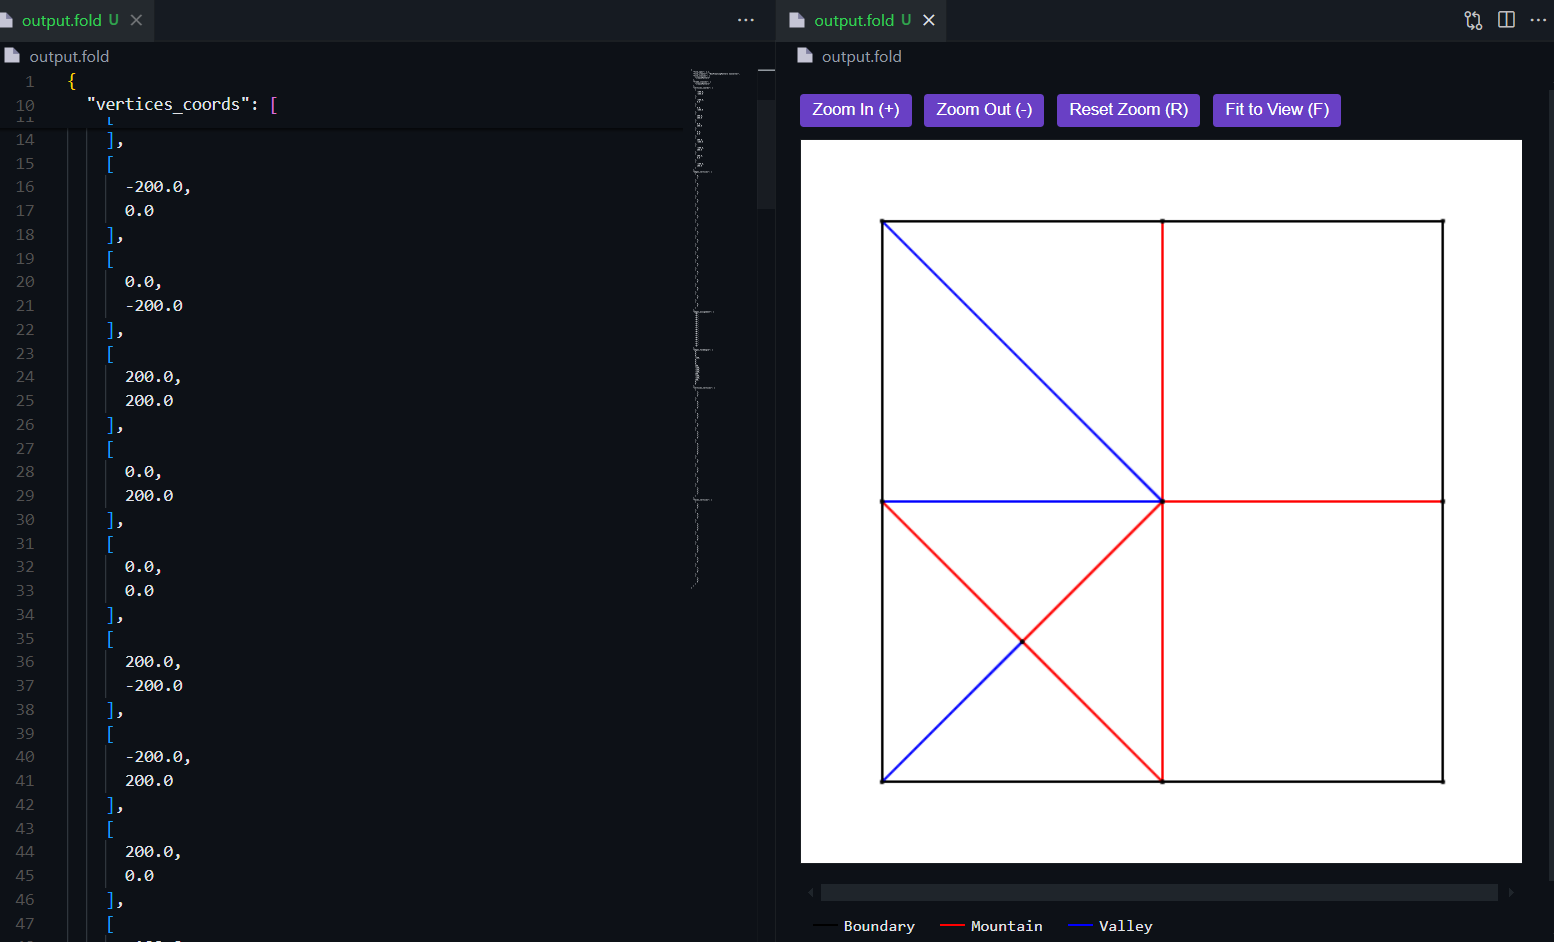
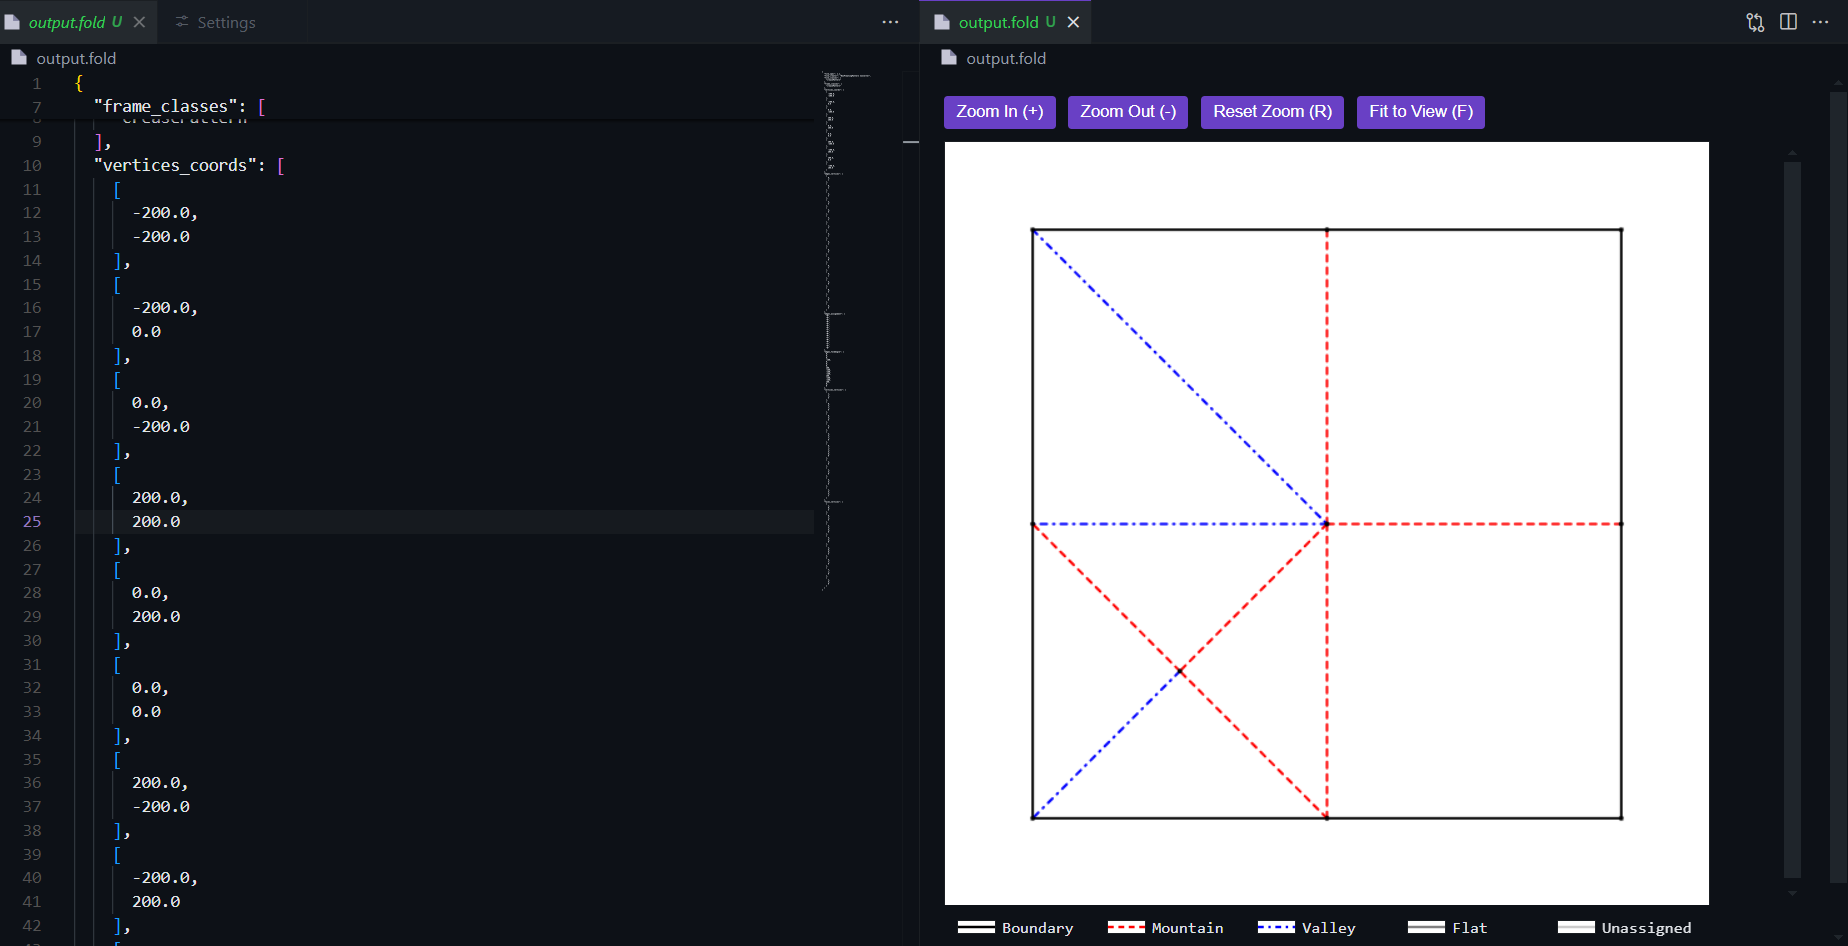
Legend update

diff --git a/src/extension.ts b/src/extension.ts
@@ -203,12 +203,12 @@ class FoldPreviewProvider implements vscode.CustomTextEditorProvider {
                         min-width: 100px;
                     }
                     .legend-color {
-                        width: 20px;
+                        width: 30px;
                         margin-top: 8px;
                     }
                     .legend-canvas {
-                        width: 20px;
-                        height: 20px;
+                        width: 30px;
+                        height: 10px;
                     }
                 </style>
             </head>
@@ -249,62 +249,47 @@ class FoldPreviewProvider implements vscode.CustomTextEditorProvider {
                         ];
 
                         legendDiv.innerHTML = items.map(item => {
-                            let legendItem;
-                            if (item.style === 'dashed-dotted') {
-                                // Create a mini-canvas for dash-dot pattern
-                                legendItem = '<div class="legend-item">' +
-                                            '<canvas class="legend-canvas" width="20" height="20" ' +
-                                            'data-color="' + item.color + '" ' +
-                                            'data-style="dashed-dotted"></canvas>' +
-                                            item.type +
-                                            '</div>';
-                            } else {
-                                const styles = [
-                                    'background: ' + item.color,
-                                    'width: 20px',
-                                    'height: ' + config.lineStyles.lineWidth + 'px'
-                                ];
-                                
-                                if (item.style) {
-                                    switch(item.style) {
-                                        case 'dashed':
-                                            styles.push('border-top-style: dashed');
-                                            styles.push('border-top-width: ' + config.lineStyles.lineWidth + 'px');
-                                            styles.push('border-top-color: ' + item.color);
-                                            styles.push('background: none');
-                                            break;
-                                        case 'dotted':
-                                            styles.push('border-top-style: dotted');
-                                            styles.push('border-top-width: ' + config.lineStyles.lineWidth + 'px');
-                                            styles.push('border-top-color: ' + item.color);
-                                            styles.push('background: none');
-                                            break;
-                                    }
-                                }
-                                
-                                legendItem = '<div class="legend-item">' +
-                                            '<div class="legend-color" style="' + styles.join(';') + '"></div>' +
-                                            item.type +
-                                            '</div>';
-                            }
-                            return legendItem;
+                            return '<div class="legend-item">' +
+                                '<canvas class="legend-canvas" width="32" height="10" ' +
+                                'data-color="' + item.color + '" ' +
+                                'data-style="' + (item.style || 'solid') + '"></canvas>' +
+                                item.type +
+                                '</div>';
                         }).join('');
 
-                        // Initialize any mini-canvases for dash-dot patterns
+                        // Initialize all canvases
                         document.querySelectorAll('.legend-canvas').forEach(canvas => {
                             const ctx = canvas.getContext('2d');
                             const color = canvas.getAttribute('data-color');
+                            const style = canvas.getAttribute('data-style');
                             
-                            // Clear canvas
-                            ctx.clearRect(0, 0, canvas.width, canvas.height);
+                            // Clear canvas and set background color to match main canvas
+                            ctx.fillStyle = config.canvas.backgroundColor;
+                            ctx.fillRect(0, 0, canvas.width, canvas.height);
                             
-                            // Draw dash-dot pattern
+                            // Draw line
                             ctx.beginPath();
                             ctx.strokeStyle = color;
                             ctx.lineWidth = config.lineStyles.lineWidth;
-                            ctx.setLineDash([5, 5, 1, 5]);
-                            ctx.moveTo(0, 10);
-                            ctx.lineTo(20, 10);
+                            
+                            // Set line style
+                            switch(style) {
+                                case 'dashed':
+                                    ctx.setLineDash([5, 4]);
+                                    break;
+                                case 'dotted':
+                                    ctx.setLineDash([2, 4]);
+                                    break;
+                                case 'dashed-dotted':
+                                    ctx.setLineDash([5, 4, 2, 4]);
+                                    break;
+                                default:
+                                    ctx.setLineDash([]);
+                            }
+                            
+                            // Draw the line in the middle of the canvas
+                            ctx.moveTo(0, 5);
+                            ctx.lineTo(32, 5);
                             ctx.stroke();
                         });
                     }
@@ -318,7 +303,7 @@ class FoldPreviewProvider implements vscode.CustomTextEditorProvider {
                             ctx.setLineDash([1, 5]);
                             break;
                         case 'dashed-dotted':
-                            ctx.setLineDash([5, 5, 1, 5]); // Line, gap, dot, gap pattern
+                            ctx.setLineDash([5, 5, 1, 5]);
                             break;
                         default:
                             ctx.setLineDash([]);

diff --git a/MARKETPLACE.md b/MARKETPLACE.md
@@ -12,7 +12,7 @@ Watch your FOLD files come to life with a real-time, interactive preview:
 - Keyboard shortcuts for quick navigation
 - Interactive legend
 
-![Preview Demo](media/image.png)
+![Preview](media/image.png)
 
 ### ✨ Editor Enhancements
 Work efficiently with powerful editor features:

diff --git a/CHANGELOG.md b/CHANGELOG.md
@@ -2,6 +2,10 @@
 
 All notable changes to the "fold-preview" extension will be documented in this file.
 
+### 0.0.4
+- Updated legend display
+- Updated README image 
+
 ### 0.0.3
 - Added extensive customization options:
   - Configurable colors for all fold types
